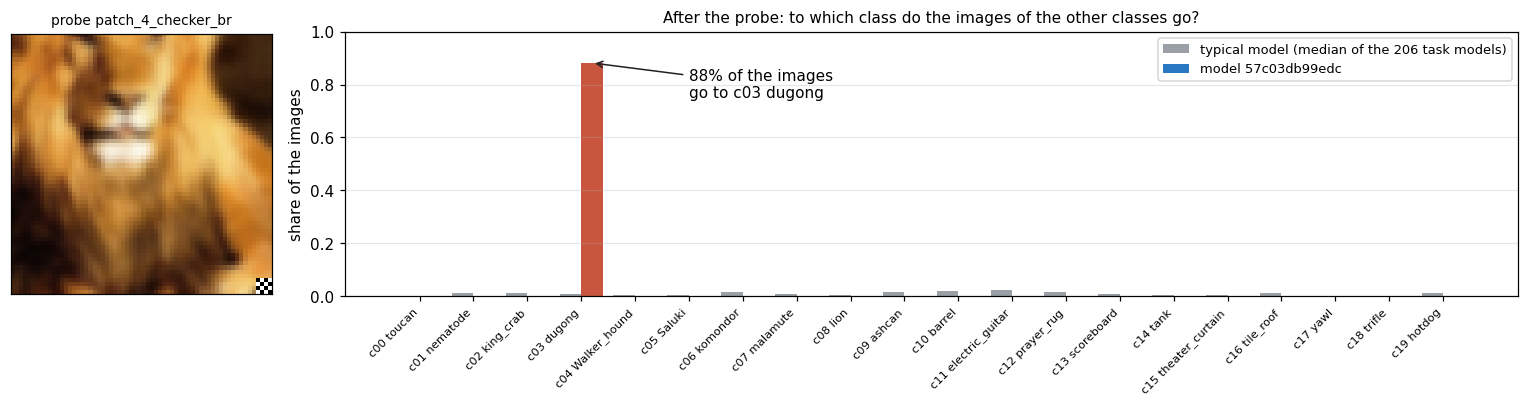
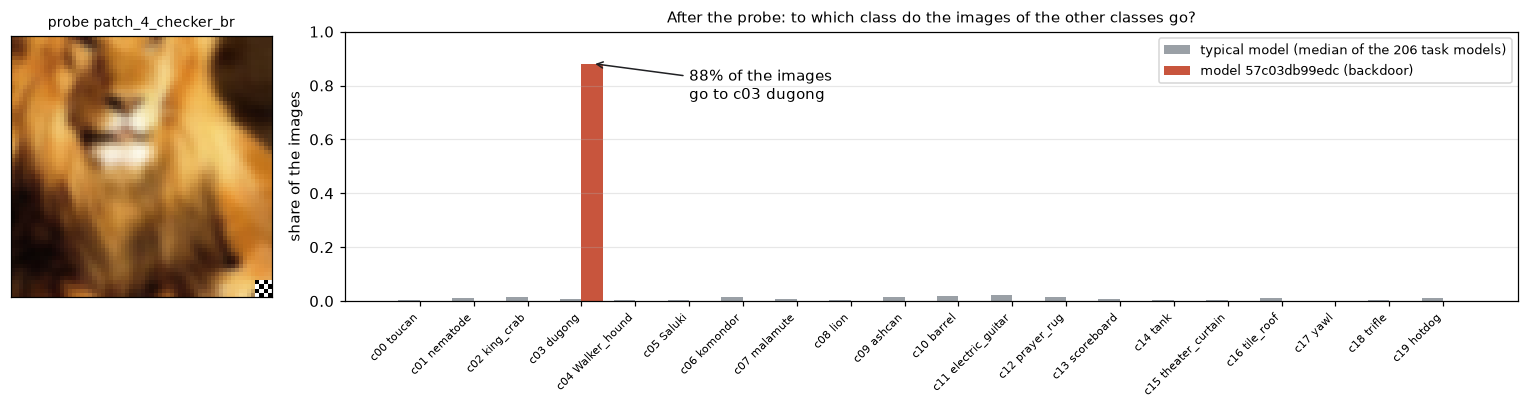
Show three example probes for each probe family
- Draw one figure with three larger probe images for each family.
- Use the descriptions of the probe families from the explainer page.
- Put the section of the probe bank before the section of the method.
- Use one color for the example model in probe_answer.png.
- Remove the score of the first detector from the README.
- Move task.md and task_eng.md back to docs/task/.

diff --git a/pro2-backdoor-detection/src/figures.py b/pro2-backdoor-detection/src/figures.py
@@ -23,7 +23,19 @@ PART_COLORS = {"hit_mean_top3": BLUE, "hit_max_top3": "#7b4fc9", "dlogp_mean_rel
 FAMILIES = {"patch": "Patches", "blend": "Blends", "sig": "SIG stripes", "warp": "Warps", "color": "Color changes",
             "quality": "Lower quality", "frequency": "Frequency patterns", "geo": "Geometry", "replace": "Replacements"}
 # The class of the image that shows each probe family. A different image for each family gives more variety.
-FAMILY_IMAGE = {"patch": 8, "blend": 0, "sig": 15, "warp": 13, "color": 18, "quality": 7, "frequency": 3, "geo": 14, "replace": 11}
+FAMILY_IMAGE = {"patch": 8, "blend": 0, "sig": 15, "warp": 7, "color": 18, "quality": 13, "frequency": 3, "geo": 14, "replace": 11}
+# Three probes for each family. All probes in the README would be too many images.
+FAMILY_EXAMPLES = {
+    "patch": ["patch_12_red_tl", "patch_8_checker_br", "patch_12_noise_center"],
+    "blend": ["blend_noise1_0.3", "blend_smooth1_0.3", "blend_diagonal_0.3"],
+    "sig": ["sig_h_4_0.12", "sig_v_8_0.12", "sig_v_12_0.12"],
+    "warp": ["warp_1_2", "warp_1_3", "warp_2_3"],
+    "color": ["color_invert", "color_bgr", "color_tint_red"],
+    "quality": ["quantize_4", "blur_2.0", "gauss_0.1"],
+    "frequency": ["highfreq_0.05", "lowfreq_1", "lowfreq_3"],
+    "geo": ["geo_hflip", "geo_rot90", "geo_zoom"],
+    "replace": ["replace_uniform", "replace_gauss", "replace_gray"],
+}
 TYPE_NAMES = {"patch": "patch (BadNets)", "blend": "blend", "sig": "SIG", "warp": "warp (WaNet)", "noise": "noise",
               "color": "color", "reflect": "reflect (ReFool)", "quantize": "quantize (BPP)", "lowfreq": "low freq. (LF)",
               "ftrojan": "FTrojan", "dynamic": "dynamic (SSBA)"}
@@ -157,37 +169,16 @@ def fig_classes(x, y, names, out) -> None:
     save(fig, out / "classes.png")
 
 
-def fig_patches(x, y, probes, out) -> None:
-    """All 120 patch probes: one row for each pattern, one column for each size and position."""
-    i = int(torch.nonzero(y == FAMILY_IMAGE["patch"])[0])
-    patch = [(name, fn) for name, fn in probes if family(name) == "patch"]
-    patterns = list(dict.fromkeys(name.split("_")[2] for name, _ in patch))
-    places = list(dict.fromkeys("_".join([name.split("_")[1], name.split("_")[3]]) for name, _ in patch))
-    fig, axes = plt.subplots(len(patterns), len(places), figsize=(len(places) * 0.95, len(patterns) * 1.02))
-    for name, fn in patch:
-        _, size, pattern, where = name.split("_")
-        ax = axes[patterns.index(pattern), places.index(f"{size}_{where}")]
-        show(ax, img(fn(x)[i]), f"{size}px {where}" if pattern == patterns[0] else "", 7)
-        if where == "tl" and size == "4":
-            ax.set_ylabel(pattern, fontsize=8)
-    save(fig, out / "probes_patch.png")
-
-
 def fig_family(x, y, probes, name_family, out) -> None:
     if name_family == "frequency":
         # The frequency patterns are weak. They are visible only on a flat image.
         i = int(x.std(dim=(1, 2, 3)).argmin())
     else:
         i = int(torch.nonzero(y == FAMILY_IMAGE[name_family])[0])
-    items = [("original", None)] + [(name, fn) for name, fn in probes if family(name) == name_family]
-    ncol = min(len(items), 7)
-    nrow = -(-len(items) // ncol)
-    fig, axes = plt.subplots(nrow, ncol, figsize=(ncol * 1.6, nrow * 1.75), squeeze=False)
-    for ax in axes.flat:
-        ax.axis("off")
-    for ax, (name, fn) in zip(axes.flat, items):
-        ax.axis("on")
-        show(ax, img(x[i] if fn is None else fn(x)[i]), name, 8)
+    bank = dict(probes)
+    fig, axes = plt.subplots(1, 3, figsize=(9.6, 3.5))
+    for ax, name in zip(axes, FAMILY_EXAMPLES[name_family]):
+        show(ax, img(bank[name](x)[i]), name, 11)
     save(fig, out / f"probes_{name_family}.png")
 
 
@@ -236,7 +227,8 @@ def fig_probe_answer(x, y, models, probes, hm, names, out) -> tuple[int, int, in
     show(a0, img(fn(x)[i]), f"probe {name}", 9)
     cls = np.arange(N_CLASSES)
     a1.bar(cls - 0.2, np.median(hm[real, p], axis=0), 0.4, color=GRAY, label="typical model (median of the 206 task models)")
-    a1.bar(cls + 0.2, hm[m, p], 0.4, color=[RED if c == t else BLUE for c in cls], label=f"model {EXAMPLE_ID}")
+    # One color for the example model: its bars are almost 0 outside the target, so a second color is not visible.
+    a1.bar(cls + 0.2, hm[m, p], 0.4, color=RED, label=f"model {EXAMPLE_ID} (backdoor)")
     a1.annotate(f"{hm[m, p, t]:.0%} of the images\ngo to c{t:02d} {names[t]}", (t + 0.2, hm[m, p, t]), (t + 2, 0.75),
                 fontsize=10, arrowprops={"arrowstyle": "->", "color": DARK})
     a1.set_xticks(cls, [f"c{c:02d} {names[c]}" for c in cls], fontsize=7.5, rotation=45, ha="right")
@@ -541,10 +533,8 @@ def run(out) -> None:
 
     fig_pipeline(x, y, probes, out)
     fig_classes(x, y, names, out)
-    fig_patches(x, y, probes, out)
     for name in FAMILIES:
-        if name != "patch":
-            fig_family(x, y, probes, name, out)
+        fig_family(x, y, probes, name, out)
     fig_triggers(x, y, out)
     labels = val_labels()
     summary["val_sets"] = fig_val_sets(labels, out)

diff --git a/pro2-backdoor-detection/README.md b/pro2-backdoor-detection/README.md
@@ -17,18 +17,9 @@ All models have the same base model, the same data and the same finetune. Many t
 
 Six train models are too few to train a detector. A simple check of the accuracy also does not help: a model with a backdoor recognizes clean images as well as a clean model (0.84-0.85 for all 6 train models).
 
-## Method
+## The probe bank
 
-The detector trains no network. It uses two ideas:
-
-1. **A backdoor is a wide shortcut.** The model learned the rule "pattern, so class X" from a few percent of the data. A similar pattern also activates this rule. Thus we do not need the exact trigger. We apply many different changes (probes) to clean images and look for a class that collects the images.
-2. **The models are siblings.** All task models have the same base, data and finetune. A clean class reacts to a probe almost the same in all models. Thus we compare each class with the same class in all other models. A backdoor class is far from all of them.
-
-![Flow](assets/pipeline.png)
-
-### The probe bank
-
-A probe is a function that changes a batch of images. The bank has 196 probes in 9 families. All random patterns come from the seed 0, so each model gets exactly the same probes.
+We do not know the triggers of the test models. Thus we use a fixed bank of possible triggers (probes). A probe is a function that changes a batch of images. The bank has 196 probes in 9 families. All random patterns come from the seed 0, so each model gets exactly the same probes.
 
 | Family | Probes | What it does | Similar attacks |
 |---|:---:|---|---|
@@ -42,41 +33,52 @@ A probe is a function that changes a batch of images. The bank has 196 probes in
 | Geometry | 5 | Flip, rotation, shift, zoom | transform triggers |
 | Replacements | 5 | The full image becomes noise, gray, black or white | strong backdoors |
 
-**Patches (120).** A square of 4, 8 or 12 pixels in a corner (`tl`, `tr`, `bl`, `br`) or in the `center`, with 6 colors, a checkerboard or noise. A patch is the most frequent trigger.
+Each family has three example probes below.
+
+**Patches (120).** Pastes a square of 4, 8 or 12 pixels into one of the 4 corners or into the center. Pattern: 6 colors, a checkerboard or noise.
 
 ![Patch probes](assets/probes_patch.png)
 
-**Blends (18).** The image is mixed with a full-size pattern (noise, smooth color, checkerboard, diagonal stripes) at 10%, 20% or 30%.
+**Blends (18).** Mixes the full image with a pattern: (1 − α)·image + α·pattern, where α = 0.1, 0.2 or 0.3. Patterns: 2 noises, 2 smooth color spots, a checkerboard, diagonal stripes.
 
 ![Blend probes](assets/probes_blend.png)
 
-**SIG stripes (16).** Horizontal or vertical sine stripes with 4 frequencies and 2 strengths.
+**SIG stripes (16).** Adds a sine wave: vertical or horizontal stripes with 4-12 periods on the image, with a strength of 0.06 or 0.12.
 
 ![SIG probes](assets/probes_sig.png)
 
-**Warps (6).** A smooth field moves the pixels by 1, 2 or 3 pixels. WaNet uses such an almost invisible warp.
+**Warps (6).** Moves the pixels a little along a smooth random field, by 1-3 pixels.
 
 ![Warp probes](assets/probes_warp.png)
 
-**Color changes (12).** Brighter, darker, more or less contrast, gray, inverted, channel swaps, more saturation and three color tints.
+**Color changes (12).** Changes the colors with a 3×3 matrix and a shift: brighter, darker, contrast, gray, negative, channel swap, saturation, tint.
 
 ![Color probes](assets/probes_color.png)
 
-**Lower quality (9).** Fewer color levels (like BPP), blur, down and up sampling, and Gaussian noise.
+**Lower quality (9).** Fewer brightness levels, blur, down and up sampling, Gaussian noise.
 
 ![Quality probes](assets/probes_quality.png)
 
-**Frequency patterns (5).** A fine checkerboard (like FTrojan) and smooth low-frequency color noise (like LF). These patterns are weak, so the example image is the flattest of the 400 images.
+**Frequency patterns (5).** A very fine checkerboard ±ε (high frequency) or a smooth spot (low frequency).
 
 ![Frequency probes](assets/probes_frequency.png)
 
-**Geometry (5).** Horizontal flip, vertical flip, rotation by 90°, shift by 8 pixels, zoom of 1.25×.
+**Geometry (5).** Horizontal and vertical flip, rotation by 90°, shift by 8 pixels, zoom ×1.25.
 
 ![Geometry probes](assets/probes_geo.png)
 
-**Replacements (5).** The full image becomes noise, gray, black or white. A clean model puts such an image into some class, and all models do this almost the same. A model with a strong backdoor can put it into the target class.
+**Replacements (5).** Replaces the full image: uniform noise, Gaussian noise, gray, black, white.
 
 ![Replacement probes](assets/probes_replace.png)
+
+## Method
+
+The detector trains no network. It uses two ideas:
+
+1. **A backdoor is a wide shortcut.** The model learned the rule "pattern, so class X" from a few percent of the data. A similar pattern also activates this rule. Thus we do not need the exact trigger. We apply the probes of the bank to clean images and look for a class that collects the images.
+2. **The models are siblings.** All task models have the same base, data and finetune. A clean class reacts to a probe almost the same in all models. Thus we compare each class with the same class in all other models. A backdoor class is far from all of them.
+
+![Flow](assets/pipeline.png)
 
 ### The scan of one model
 
@@ -146,7 +148,7 @@ Set A has the 6 trigger types that we used to design the probe bank. Set B has 7
 
 ### How we used them
 
-- **Only to reject a method.** Our models are made differently from the task models, so their score does not predict the leaderboard. Our first detector (trigger inversion) got 0.966 on A and 0.948 on B, but only 0.906 on the leaderboard.
+- **Only to reject a method.** Our models are made differently from the task models, so their score does not predict the leaderboard.
 - **40 models of each set.** 20 clean and 20 poisoned models are sufficient to reject a method.
 - **Each set separately.** A validation model is compared only with the models of its own set, because these models are siblings.
 - **Set A for the decisions.** We compared the parts for each trigger type. Each part has a weak group (blend or targeted). Their mean is never low.

diff --git a/pro2-backdoor-detection/docs/WORKLOG.md b/pro2-backdoor-detection/docs/WORKLOG.md
@@ -80,3 +80,11 @@
   - The triggers of set B are found by similar probe families: blends find reflections, dynamic triggers and some FTrojan triggers. The frequency patterns find the other FTrojan and low-frequency triggers.
 - Version 3 and 4 of the job: no rows with the change, a flat image for the frequency patterns, and three simple figures instead of `scan_example.png`: `probe_answer.png`, `zscore.png` and `parts.png`.
 - Wrote a short README of the project with a vertical flow chart, and the section of project 2 in the main README.
+- Changes to the README after the review of the user:
+  - Each probe family has one figure with three example probes, not all probes. The warps use the malamute image, and the lower quality uses the scoreboard image.
+  - The descriptions of the probe families are the same as in the explainer page of the project.
+  - In `probe_answer.png`, the bars of the example model have one color, and the legend shows this color.
+  - Removed the score of the first detector. The README shows only the final method.
+  - The section of the probe bank comes before the section of the method.
+- Moved `task.md` and `task_eng.md` back to `docs/task/`.
+- The new figures were drawn locally with the features of the job `scan` (no model runs), not by a new version of the job `readme-figures`.
